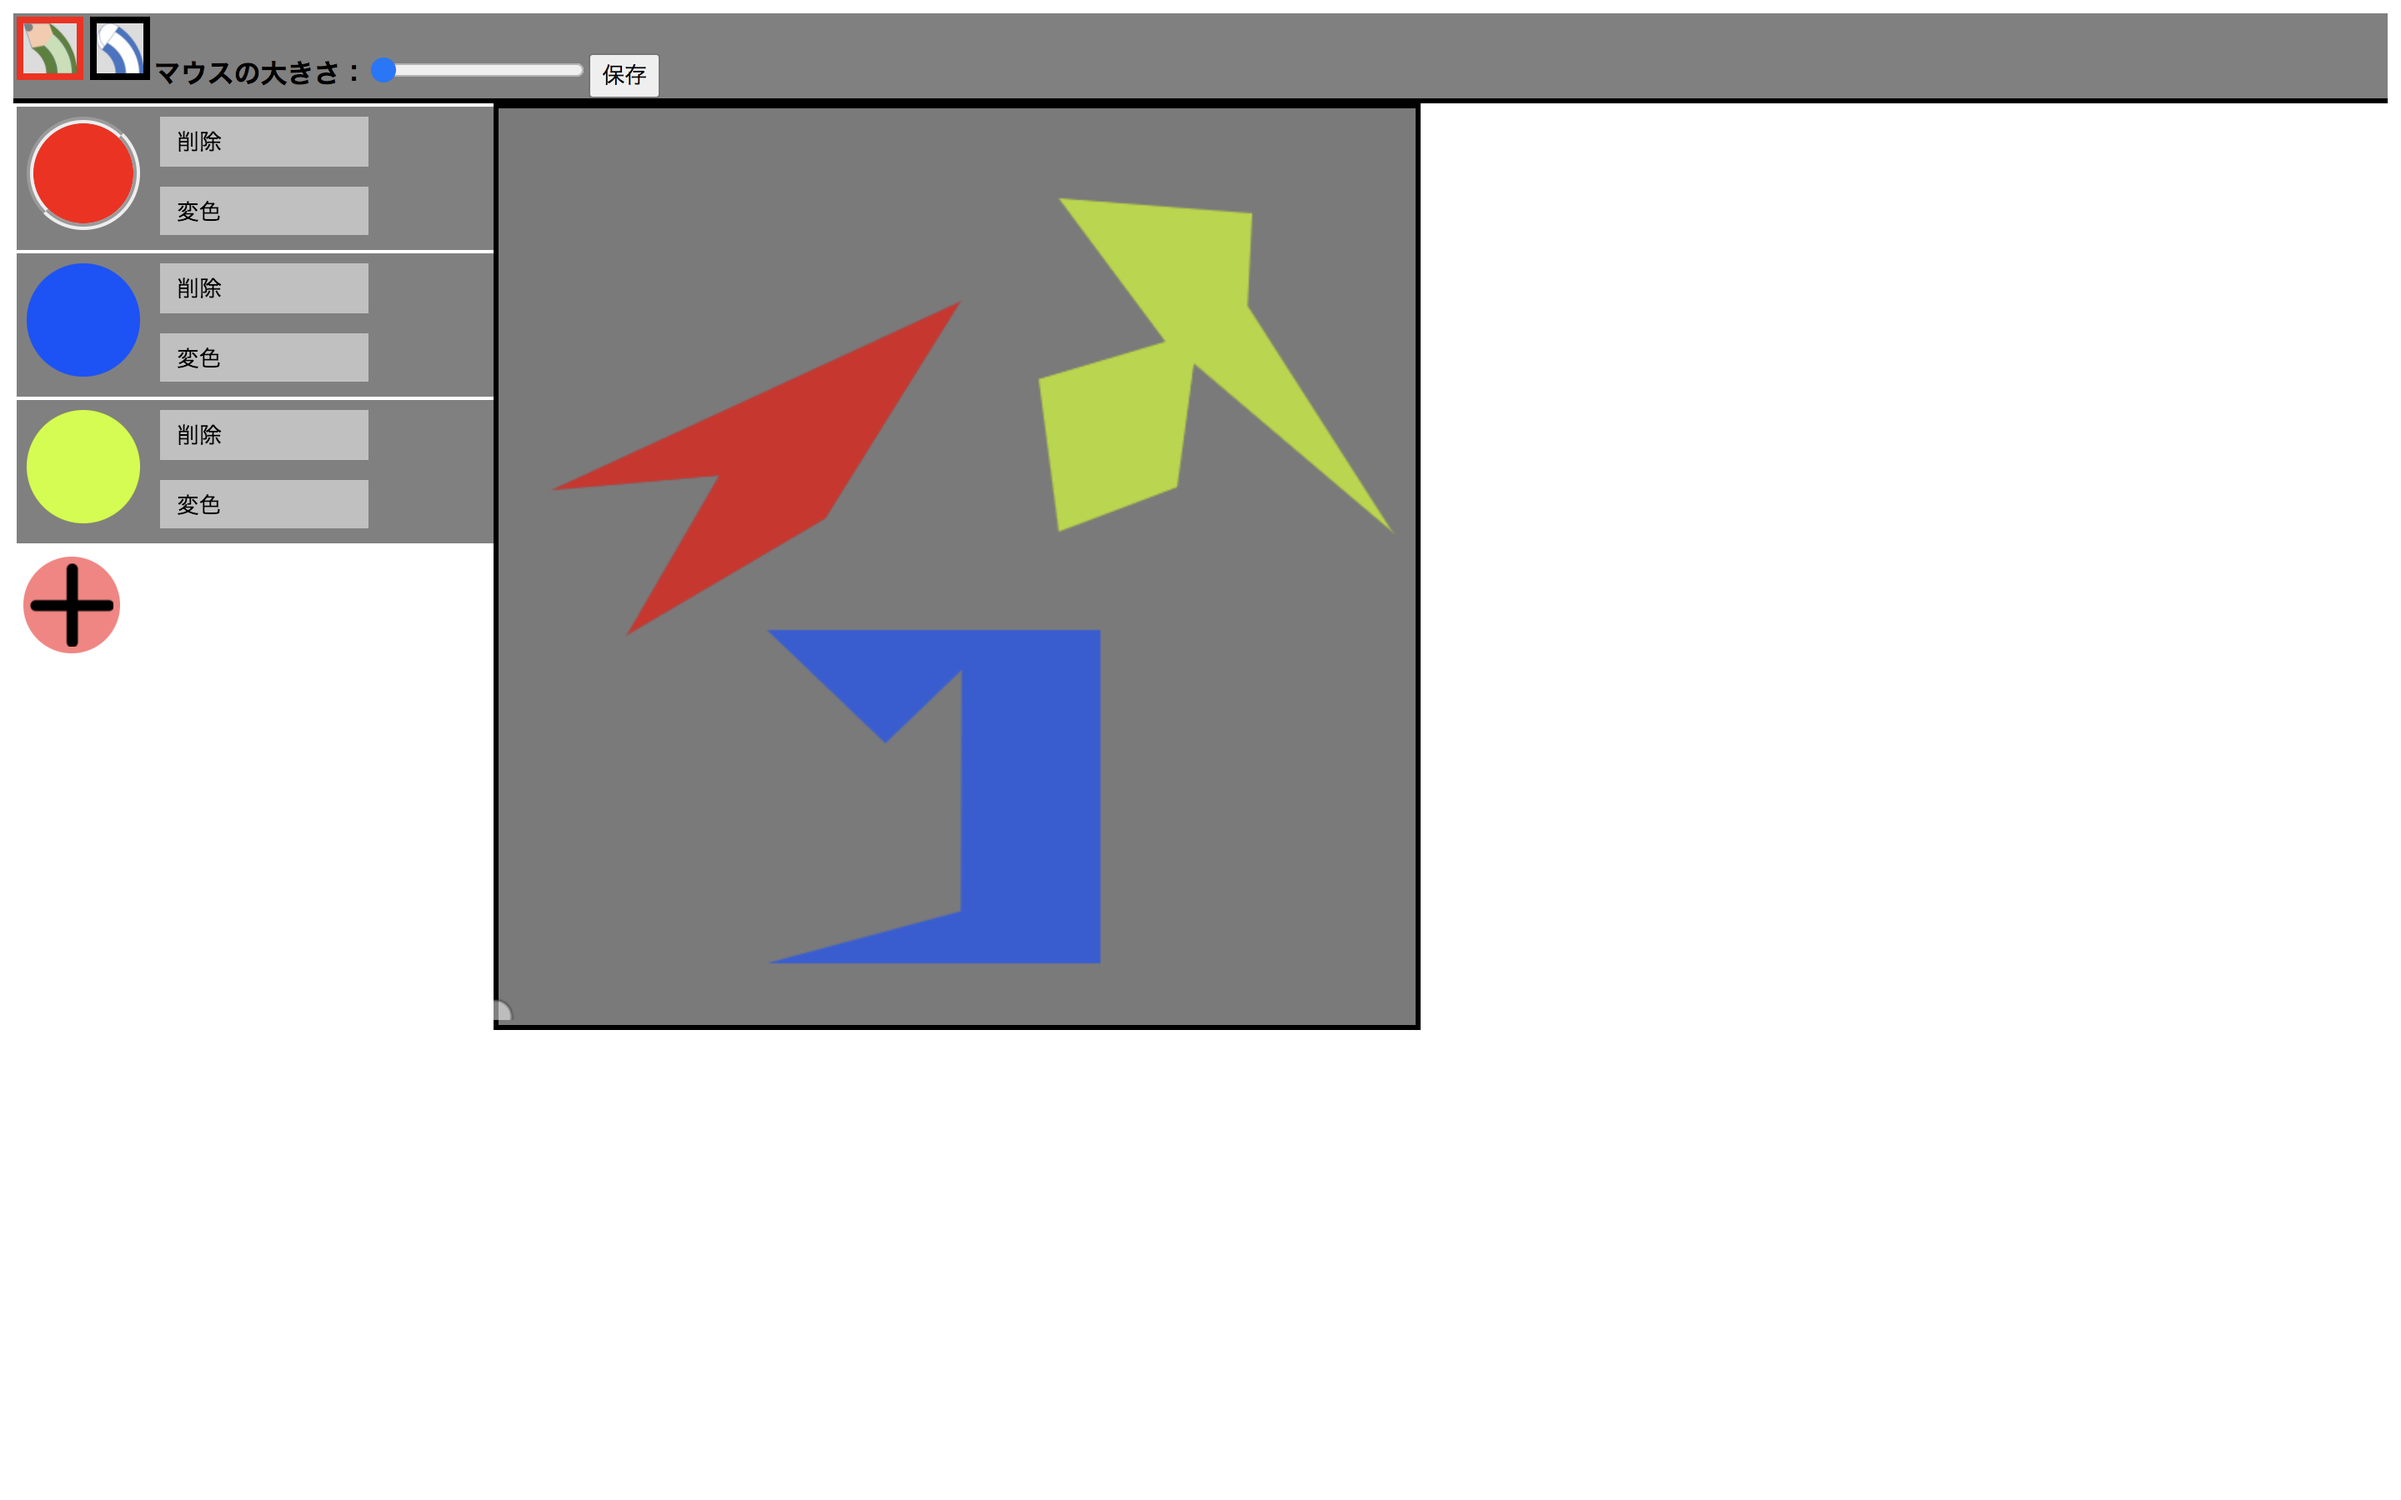
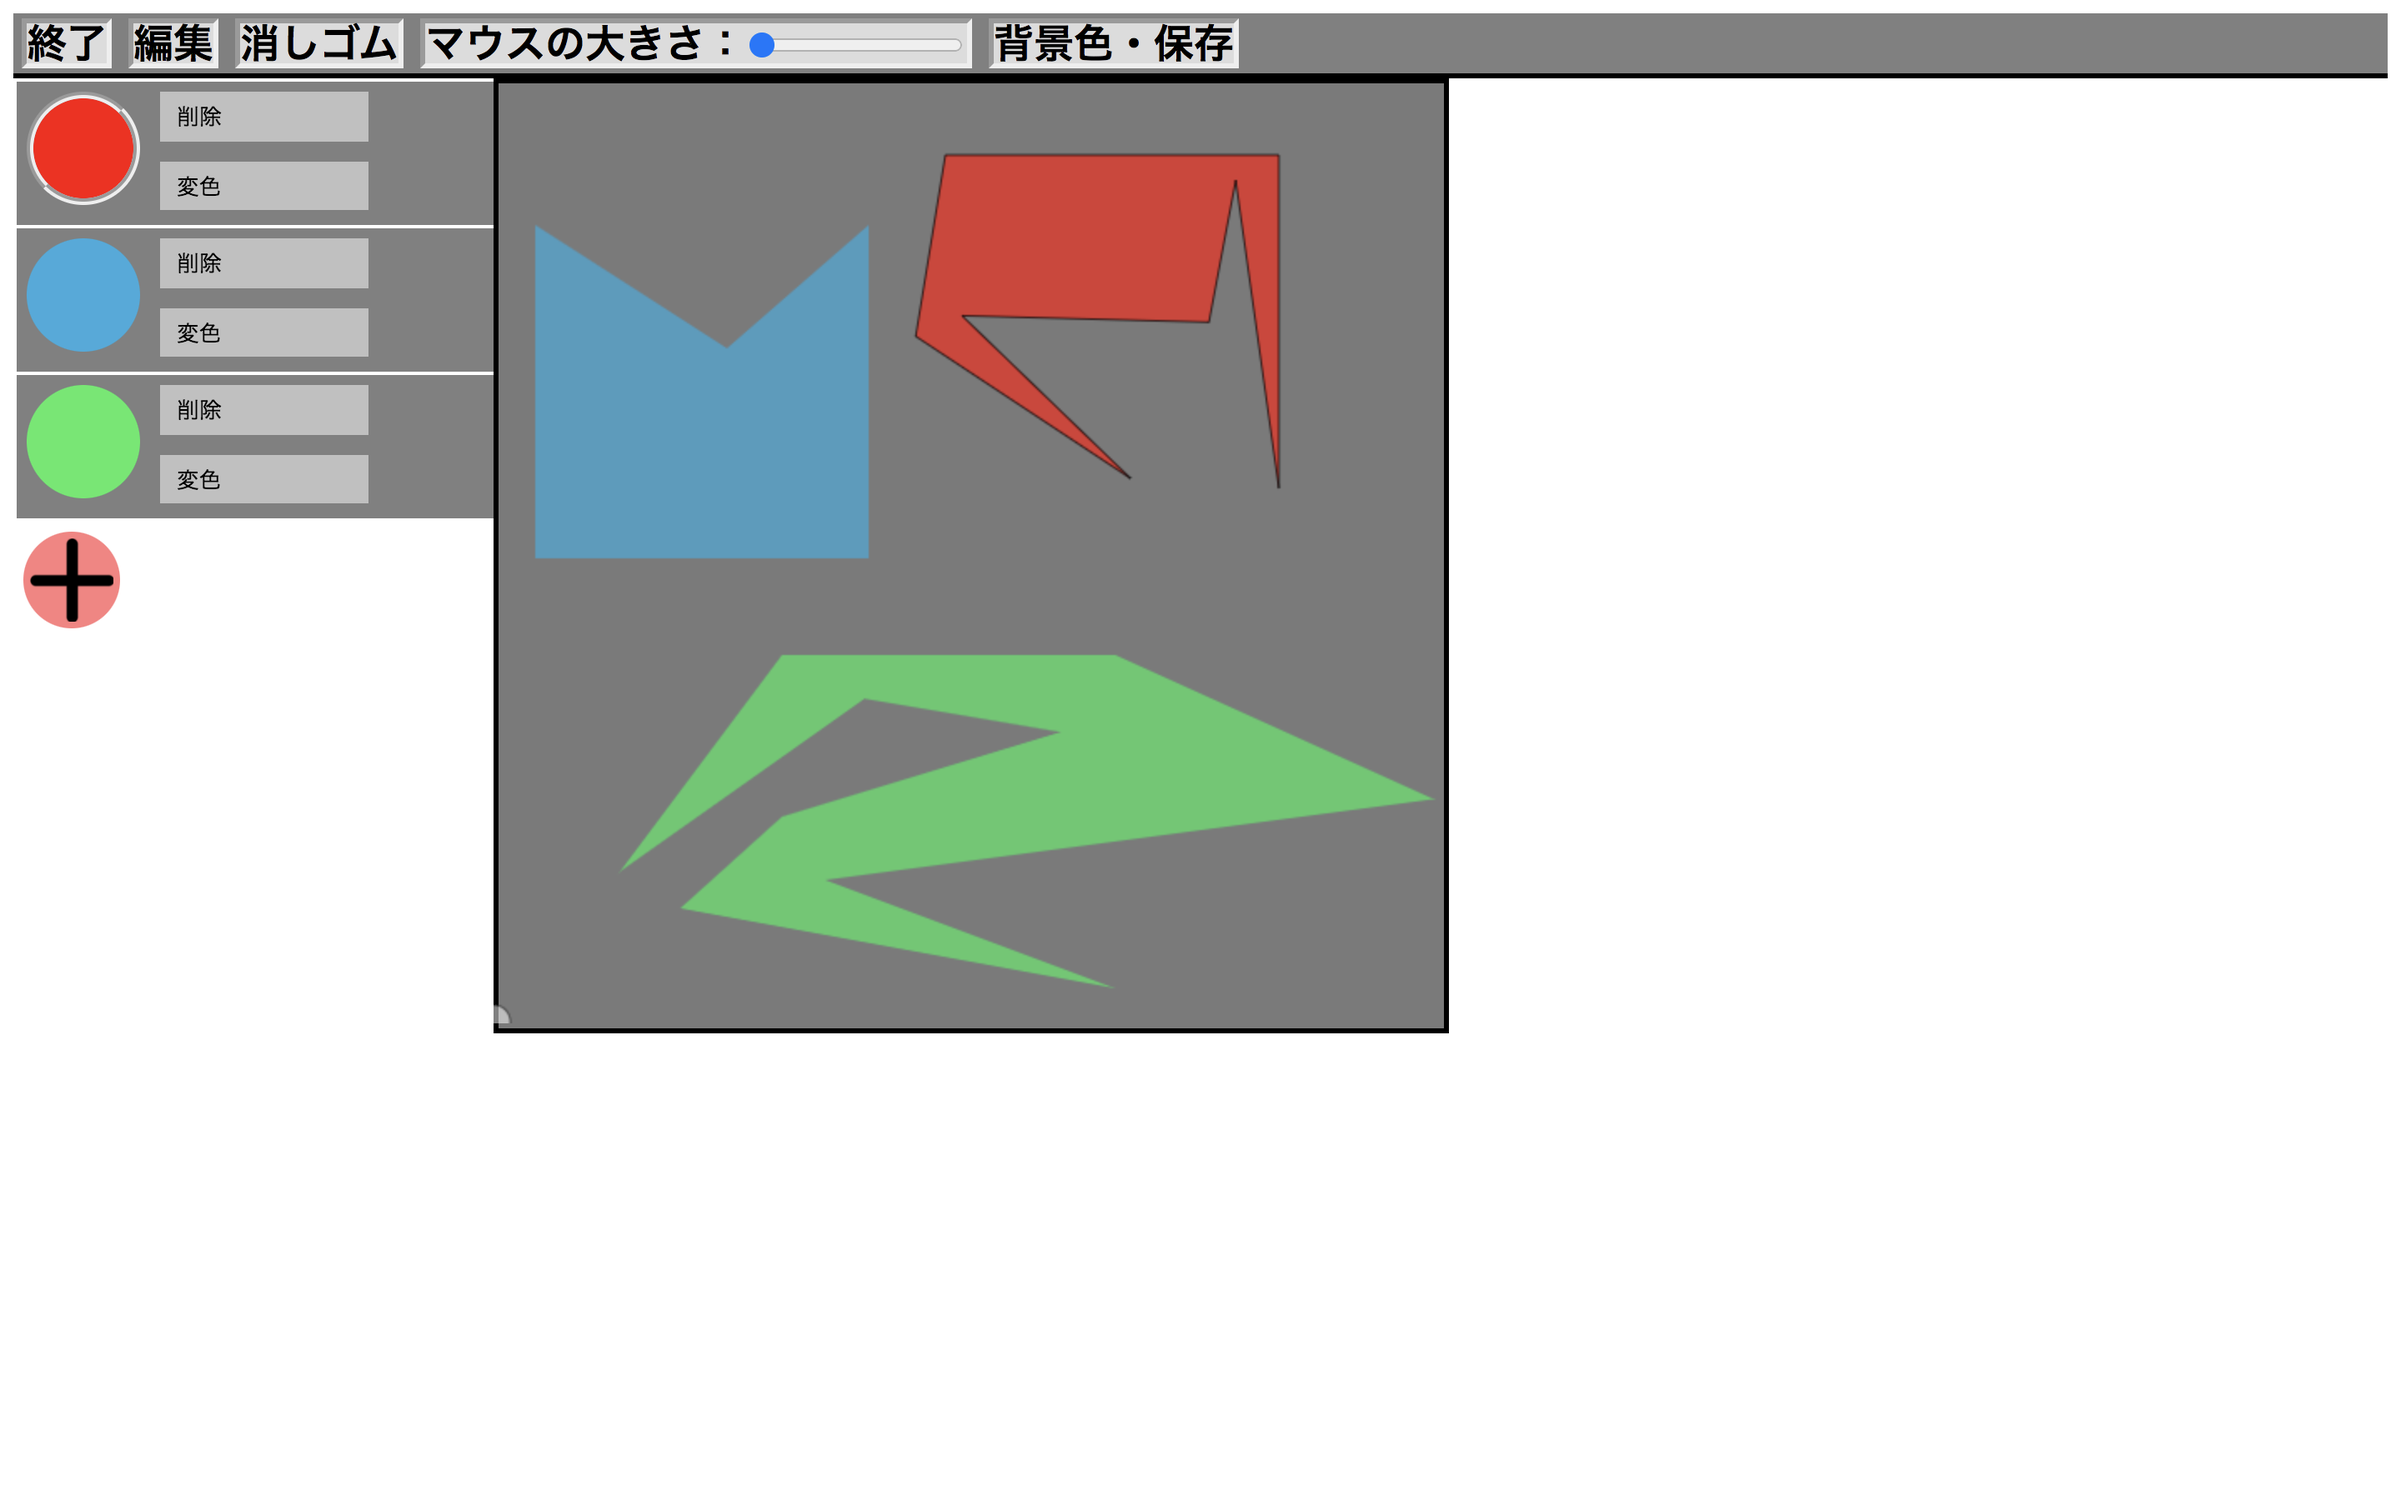
fixed index

Changed region(s): [[0.0, 0.0, 1.0, 0.7156]]

diff --git a/hei/rhyme_atrium_home.js b/hei/rhyme_atrium_home.js
@@ -42,6 +42,9 @@ function select_set(){
   //document.getElementById('option1').appendChild(pop_out);
   document.body.appendChild(pop_out);
 
+  if(JSON.parse(localStorage.getItem('img')).length>=11){
+    localStorage.setItem('img',JSON.stringify(JSON.parse(localStorage.getItem('img')).slice(1)));
+  }
   //------------------------------
   var select = document.createElement("div")
 
@@ -238,15 +241,24 @@ function save_pop(data){
     drawing()
     console.log(sel_path)
     //localStorage.setItem('img',JSON.stringify({data:{path:[sel_path],bcol:rgbTo16(bcol)}]));
-    var get_yet = JSON.parse(localStorage.getItem('img'))
-    if (get_yet instanceof Array == false) {
-      localStorage.setItem('img',[JSON.stringify(
-        {data:sel_path,bcol:bcol})]);
+    var jk = localStorage.getItem('img')
+    console.log(jk)
+    if(jk.match(/{/)){
+      var get_yet = JSON.parse(localStorage.getItem('img'))
+      if (get_yet instanceof Array == false) {
+        localStorage.setItem('img',JSON.stringify([{data:sel_path,bcol:bcol}]));
+        //console.log(JSON.parse(localStorage.getItem('img')))
+      }else{
+        get_yet = get_yet.concat({data:sel_path,bcol:bcol})
+        localStorage.setItem('img',JSON.stringify(get_yet));
+        console.log(localStorage.getItem('img'))
+      }
     }else{
-      get_yet = get_yet.push(JSON.stringify(
-        {data:sel_path,bcol:bcol}))
-      localStorage.setItem('img',get_yet);
+      localStorage.setItem('img',JSON.stringify([{data:sel_path,bcol:bcol}]));
     }
+    //localStorage.setItem('img',JSON.stringify([{data:sel_path,bcol:bcol},{data:sel_path,bcol:bcol}]));
+    //localStorage.setItem('img',JSON.stringify([{data:sel_path,bcol:bcol}]));
+    //console.log(get_yet.concat({data:sel_path,bcol:bcol}))
     alert('画像が保存されました。')
     //draw_set(data)
   })
@@ -473,8 +485,21 @@ function draw_set(n){
   mode.setAttribute("checked","");
   var lab = document.createElement("label");
   lab.setAttribute("for","mode_0");
-  lab.setAttribute("class","mode");
+  lab.setAttribute("class","mode modes");
+  lab.style.backgroundColor = "#778899"
   lab.innerHTML = "編集"
+  mode.addEventListener("change",function(){
+    console.log(1234)
+    var get = document.getElementsByName('mode')
+    var cla = document.getElementsByClassName('modes')
+    for (var i = 0; i < get.length; i++) {
+      if (get[i].checked) {
+        cla[i].style.backgroundColor = "#778899"
+      }else{
+        cla[i].style.backgroundColor = "#dcdcdc"
+      }
+    }
+  });
   //mode.textContent="編集"
   document.getElementById('option1').appendChild(mode);
   document.getElementById('option1').appendChild(lab);
@@ -486,8 +511,20 @@ function draw_set(n){
   mode.setAttribute("value","1");
   lab = document.createElement("label");
   lab.setAttribute("for","mode_1");
-  lab.setAttribute("class","mode");
+  lab.setAttribute("class","mode modes");
   lab.innerHTML = "消しゴム"
+  mode.addEventListener("change",function(){
+    console.log(1234)
+    var get = document.getElementsByName('mode')
+    var cla = document.getElementsByClassName('modes')
+    for (var i = 0; i < get.length; i++) {
+      if (get[i].checked) {
+        cla[i].style.backgroundColor = "#778899"
+      }else{
+        cla[i].style.backgroundColor = "#dcdcdc"
+      }
+    }
+  });
   //mode.textContent="消しゴム"
   document.getElementById('option1').appendChild(mode);
   document.getElementById('option1').appendChild(lab);

diff --git a/hei/path_json.js b/hei/path_json.js
@@ -24,18 +24,13 @@ if (localStorage.getItem('img')){
 }*/
 
 function setting(){
+  var get_yet = JSON.parse(localStorage.getItem('img'))
   if (localStorage.getItem('img')){
-    date_img = JSON.parse(localStorage.getItem('img'))
-    console.log(date_img)
-    //if (date_img.length>=1) {
-      return path.concat(date_img)
-    //}else{
-      return path
-    //}
+    console.log(path.concat(get_yet))
+    return path.concat(get_yet)
   }else{
     return path
   }
-  return path
 }
 
 
